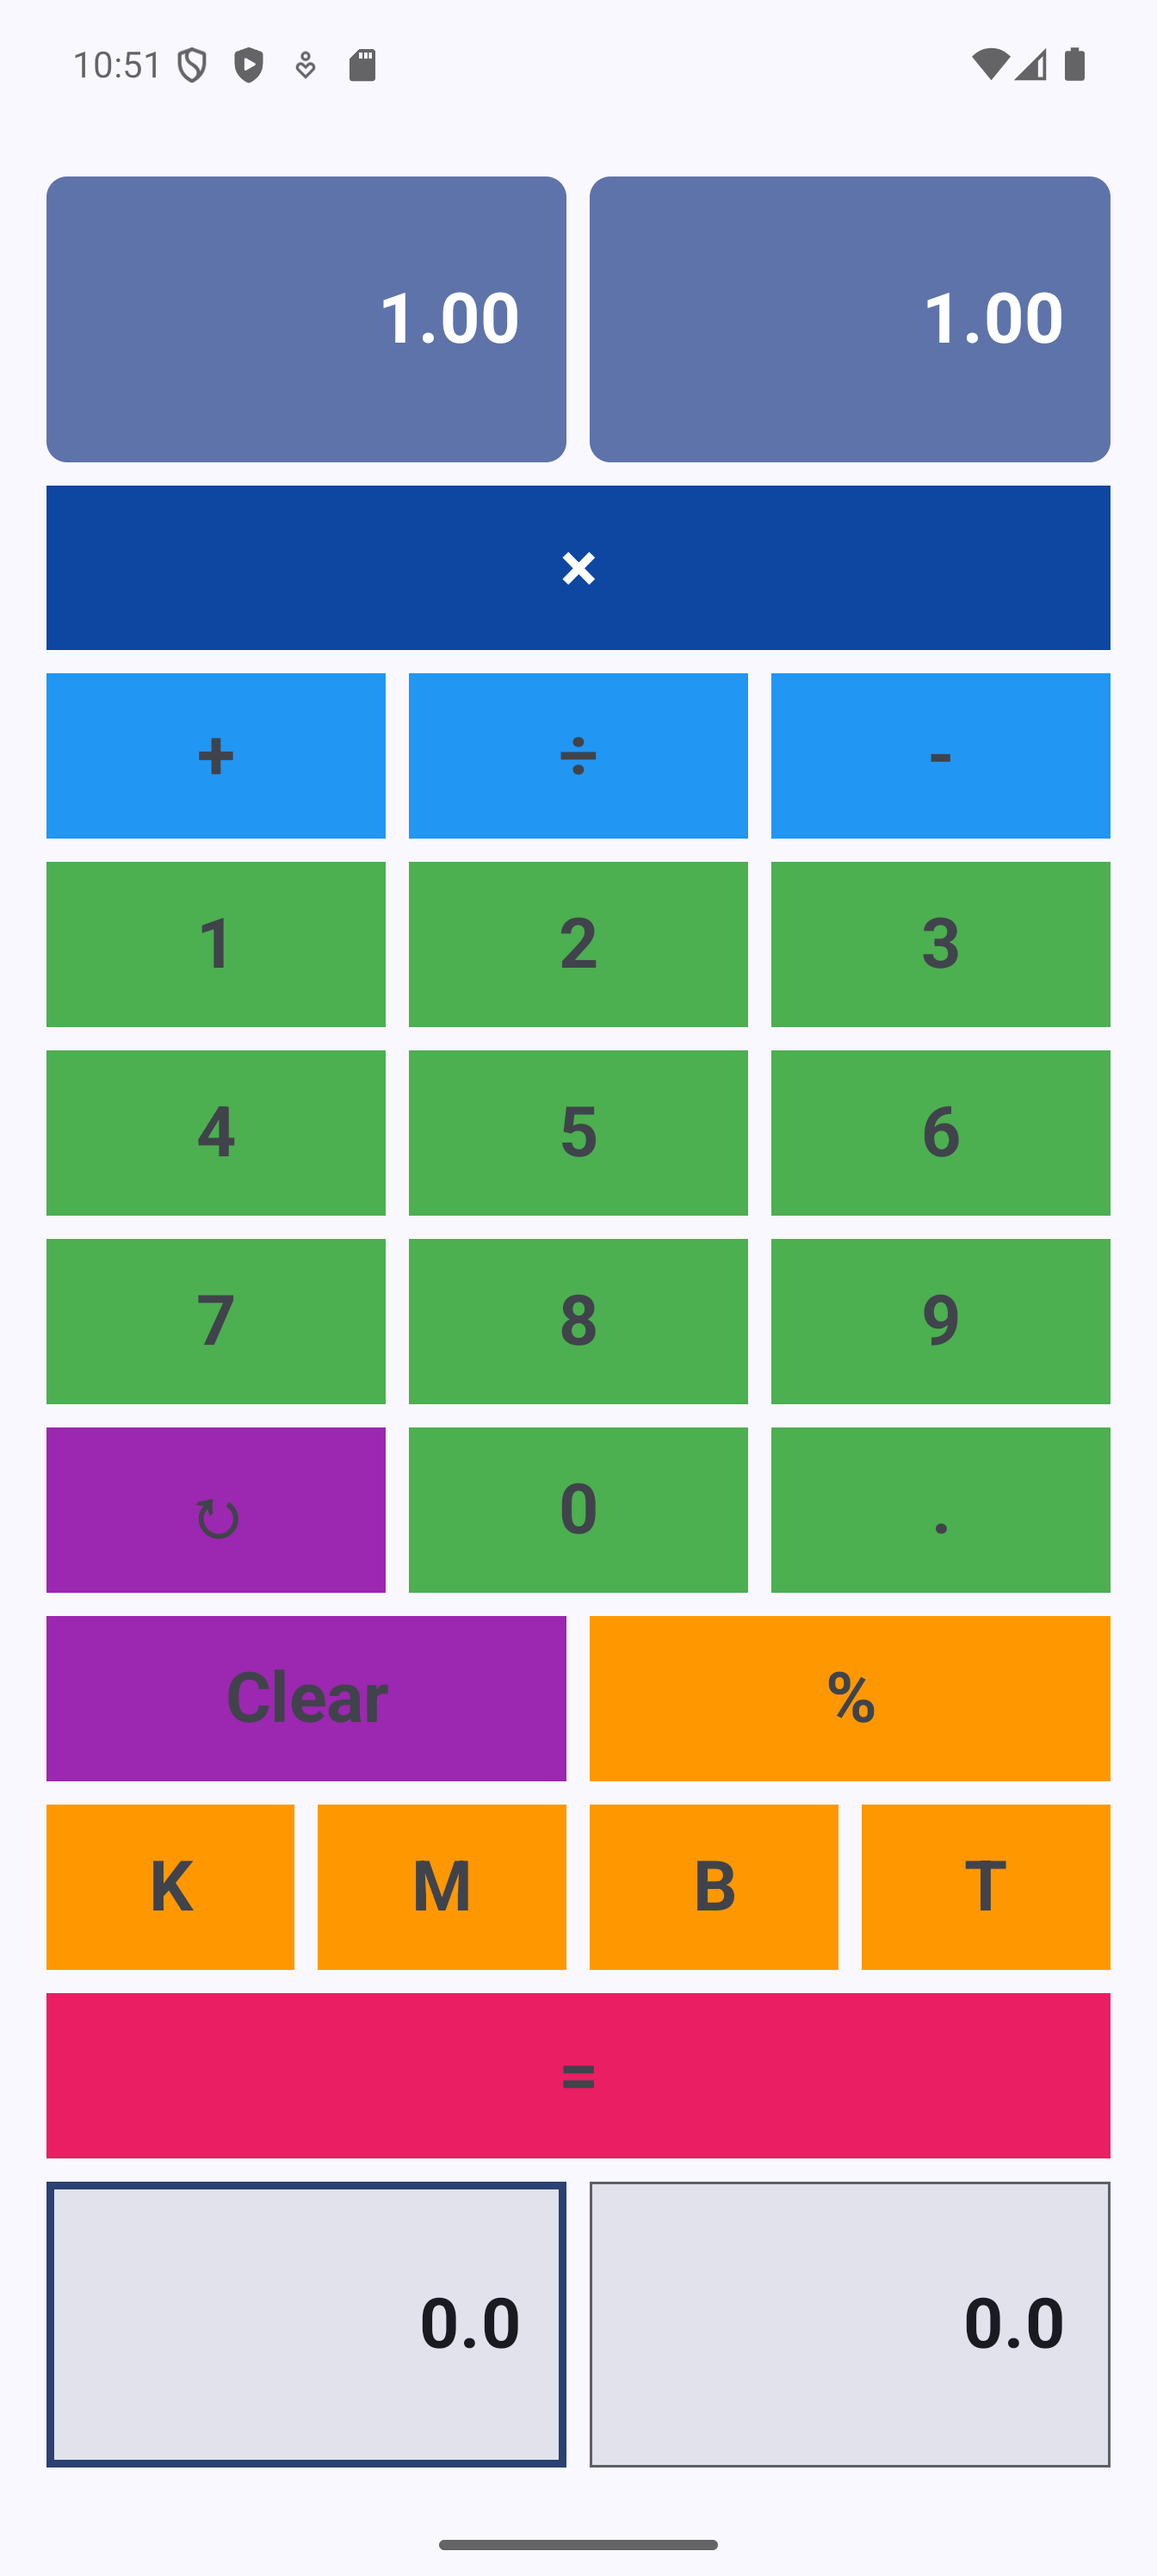
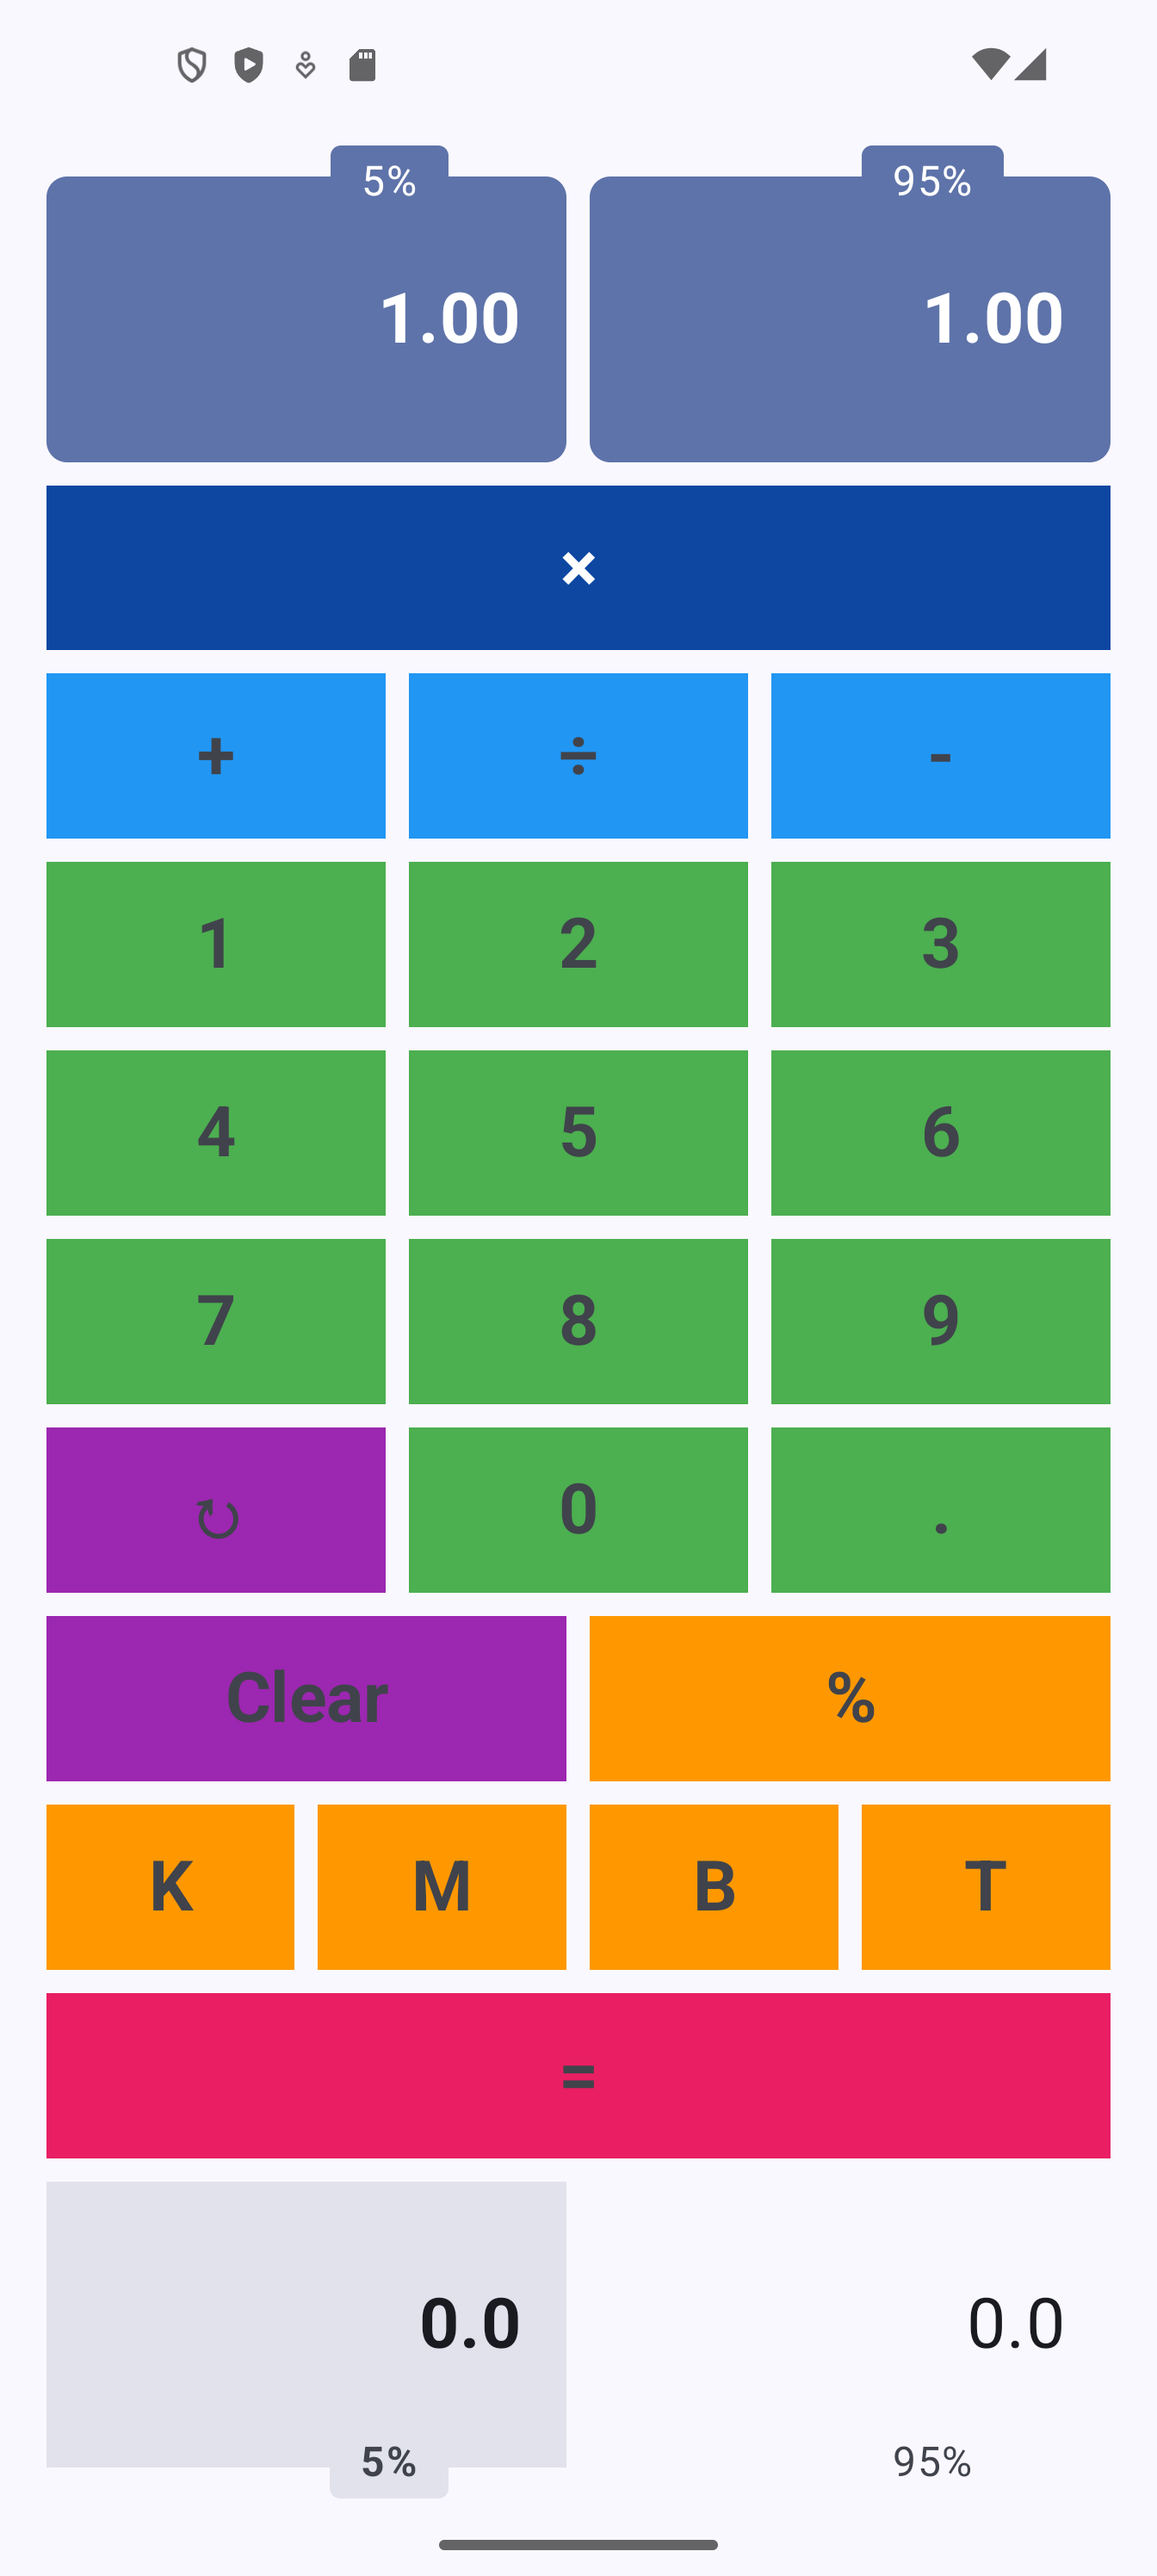
add 90% confidence labels (5%, 95%) to inputs and outputs
bump to v0.02.05 (205)

diff --git a/app/src/main/java/com/nunosempere/distributioncalculator/MainActivity.kt b/app/src/main/java/com/nunosempere/distributioncalculator/MainActivity.kt
@@ -55,6 +55,7 @@ import com.nunosempere.distributioncalculator.ui.theme.NumberColor
 import com.nunosempere.distributioncalculator.ui.theme.OperationColor
 import com.nunosempere.distributioncalculator.ui.theme.OperationSelectedColor
 import com.nunosempere.distributioncalculator.ui.theme.UnitColor
+import com.nunosempere.distributioncalculator.ui.theme.SurfaceVariantSelected
 import com.nunosempere.distributioncalculator.ui.percentileindicator.*
 import com.nunosempere.distributioncalculator.samples.*
 
@@ -658,11 +659,9 @@ fun Calculator(modifier: Modifier = Modifier) {
                             modifier = Modifier
                                 .height(height = inputBoxHeight)
                                 .fillMaxWidth()
-                                .background(MaterialTheme.colorScheme.surfaceVariant, RectangleShape)
-                                .border(
-                                    width = if (selected_input == 0) 3.dp else 1.dp,
-                                    color = if (selected_input == 0) MaterialTheme.colorScheme.primary else MaterialTheme.colorScheme.outline,
-                                    shape = RectangleShape
+                                .background(
+                                    if (selected_input == 0) MaterialTheme.colorScheme.surfaceVariant else SurfaceVariantSelected,
+                                    RectangleShape
                                 )
                                 .clickable { selected_input = 0; on_decimal_input = 0; on_decimal_level = -1 }
                                 .padding(all = basePadding)
@@ -672,7 +671,7 @@ fun Calculator(modifier: Modifier = Modifier) {
                             Text(
                                 text = toPrettyString(input_field_low),
                                 fontSize = largeFontSize,
-                                fontWeight = FontWeight.Bold,
+                                fontWeight = if (selected_input == 0) FontWeight.Bold else FontWeight.Normal,
                                 textAlign = TextAlign.End,
                                 maxLines = 1
                             )
@@ -683,7 +682,7 @@ fun Calculator(modifier: Modifier = Modifier) {
                                 .offset(y = (+12).dp, x = (+32).dp)
                                 .zIndex(2f)
                         ) {
-                            PercentileIndicator(text = "5%")
+                            PercentileIndicator(text = "5%", selected_input = (selected_input == 0))
                         }
                     }
                     Box(
@@ -693,11 +692,9 @@ fun Calculator(modifier: Modifier = Modifier) {
                             modifier = Modifier
                                 .height(height = inputBoxHeight)
                                 .fillMaxWidth()
-                                .background(MaterialTheme.colorScheme.surfaceVariant, RectangleShape)
-                                .border(
-                                    width = if (selected_input == 1) 3.dp else 1.dp,
-                                    color = if (selected_input == 1) MaterialTheme.colorScheme.primary else MaterialTheme.colorScheme.outline,
-                                    shape = RectangleShape
+                                .background(
+                                    if (selected_input == 1) MaterialTheme.colorScheme.surfaceVariant else SurfaceVariantSelected,
+                                    RectangleShape
                                 )
                                 .clickable { selected_input = 1; on_decimal_input = 0; on_decimal_level = -1 }
                                 .padding(all = basePadding)
@@ -707,7 +704,7 @@ fun Calculator(modifier: Modifier = Modifier) {
                             Text(
                                 text = toPrettyString(input_field_high),
                                 fontSize = largeFontSize,
-                                fontWeight = FontWeight.Bold,
+                                fontWeight = if (selected_input == 1) FontWeight.Bold else FontWeight.Normal,
                                 textAlign = TextAlign.End,
                                 maxLines = 1
                             )
@@ -718,7 +715,7 @@ fun Calculator(modifier: Modifier = Modifier) {
                                 .offset(y = (+12).dp, x = (+32).dp)
                                 .zIndex(2f)
                         ) {
-                            PercentileIndicator(text = "95%")
+                            PercentileIndicator(text = "95%", selected_input = (selected_input == 1))
                         }
                     }
                 }

diff --git a/app/src/main/java/com/nunosempere/distributioncalculator/ui/PercentileIndicator.kt b/app/src/main/java/com/nunosempere/distributioncalculator/ui/PercentileIndicator.kt
@@ -14,17 +14,19 @@ import androidx.compose.ui.graphics.Color
 import androidx.compose.ui.text.font.FontWeight
 import androidx.compose.ui.unit.dp
 import androidx.compose.ui.unit.sp
+import com.nunosempere.distributioncalculator.ui.theme.SurfaceVariantSelected
 
 @Composable
 fun PercentileIndicator(
     text: String,
     blue: Boolean = false,
+    selected_input: Boolean = false,
     modifier: Modifier = Modifier
 ) {
     Box(
         modifier = modifier
             .background(
-                if (blue) MaterialTheme.colorScheme.primaryContainer else MaterialTheme.colorScheme.surfaceVariant,
+                if (blue) MaterialTheme.colorScheme.primaryContainer else (if (selected_input) MaterialTheme.colorScheme.surfaceVariant else SurfaceVariantSelected),
                 RoundedCornerShape(4.dp)
             )
             /*.border(
@@ -37,7 +39,7 @@ fun PercentileIndicator(
         Text(
             text = text,
             fontSize = 16.sp,
-            fontWeight = FontWeight.Normal,
+            fontWeight = if (selected_input) FontWeight.Bold else FontWeight.Normal,
             color = if (blue) MaterialTheme.colorScheme.onPrimaryContainer else MaterialTheme.colorScheme.onSurfaceVariant
         )
     }

diff --git a/app/src/main/java/com/nunosempere/distributioncalculator/ui/theme/Color.kt b/app/src/main/java/com/nunosempere/distributioncalculator/ui/theme/Color.kt
@@ -17,3 +17,7 @@ val NumberColor = Color(0xFF4CAF50)     // Green
 val UnitColor = Color(0xFFFF9800)       // Orange
 val CommandColor = Color(0xFF9C27B0)    // Purple
 val EqualColor = Color(0xFFE91E63)      // Pink
+
+// Input field colors
+val SurfaceVariantSelected = Color(0xD3D3D3)  // Darker variant for selected input
+// val SurfaceVariantSelected = Color(0xFFE1E1E1)  // Darker variant for selected input
